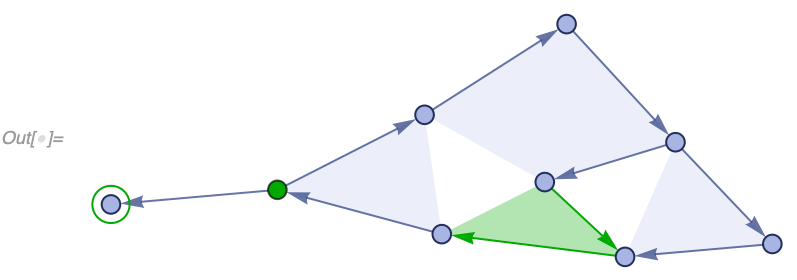
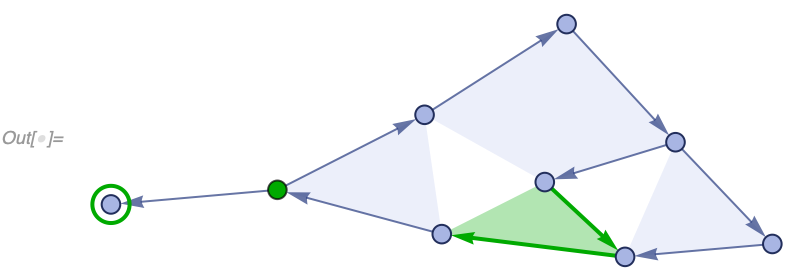
Update documentation about GraphHighlightStyle.

diff --git a/README.md b/README.md
@@ -1474,12 +1474,12 @@ In[] := WolframModelPlot[{{1, 2, 3}, {1, 2, 3}, {3, 4}, {3, 4}, {3,
 
 <img src="READMEImages/PlotWithMultiedgeHighlight.png" width="478">
 
-The color of the highlight can be specified with **`GraphHighlightStyle`** (only colors, other style specifiers are not supported at the moment):
+The style of the highlight can be specified with **`GraphHighlightStyle`**:
 
 ```
 In[] := WolframModelPlot[{{1, 2, 3}, {3, 4, 5}, {5, 6, 7, 1}, {7, 8, 2}, {4,
    9}, {9}}, GraphHighlight -> {{1, 2, 3}, 4, {9}},
- GraphHighlightStyle -> Darker @ Green]
+ GraphHighlightStyle -> Directive[Darker @ Green, Thick]]
 ```
 
 <img src="READMEImages/PlotWithGreenHighlight.png" width="478">
